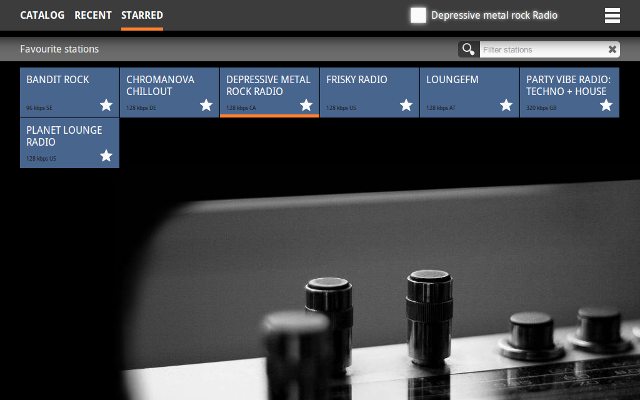
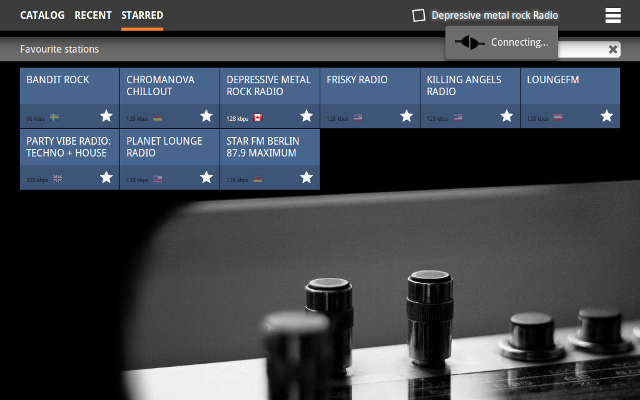
Screenshots update

diff --git a/docs/screenshot-guide.md b/docs/screenshot-guide.md
@@ -10,8 +10,10 @@ Guidelines:
 * playing station selection visible
 
 * catalog when playing some station 
-* genres -> electronic -> Dance when playing some other station
-* starred stations during playing one of those
+* genres -> electronic -> Dance 
+  - when playing some other station
+  - with station info popup visible
+* starred stations when connecting to one of those
 
 ## To create screenshot with resolution 1280x800
 
